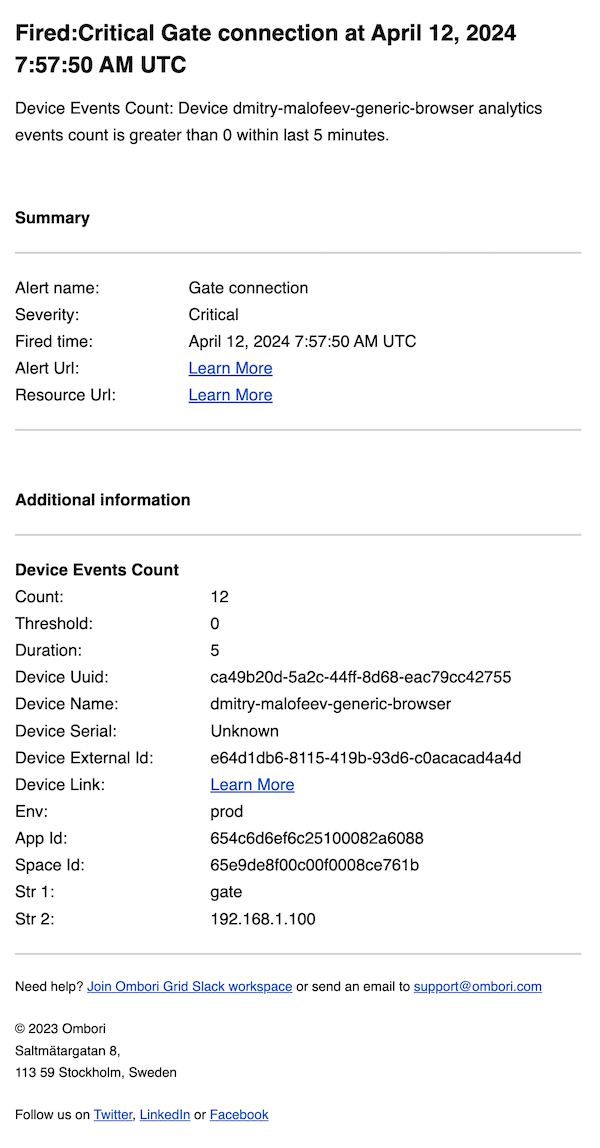
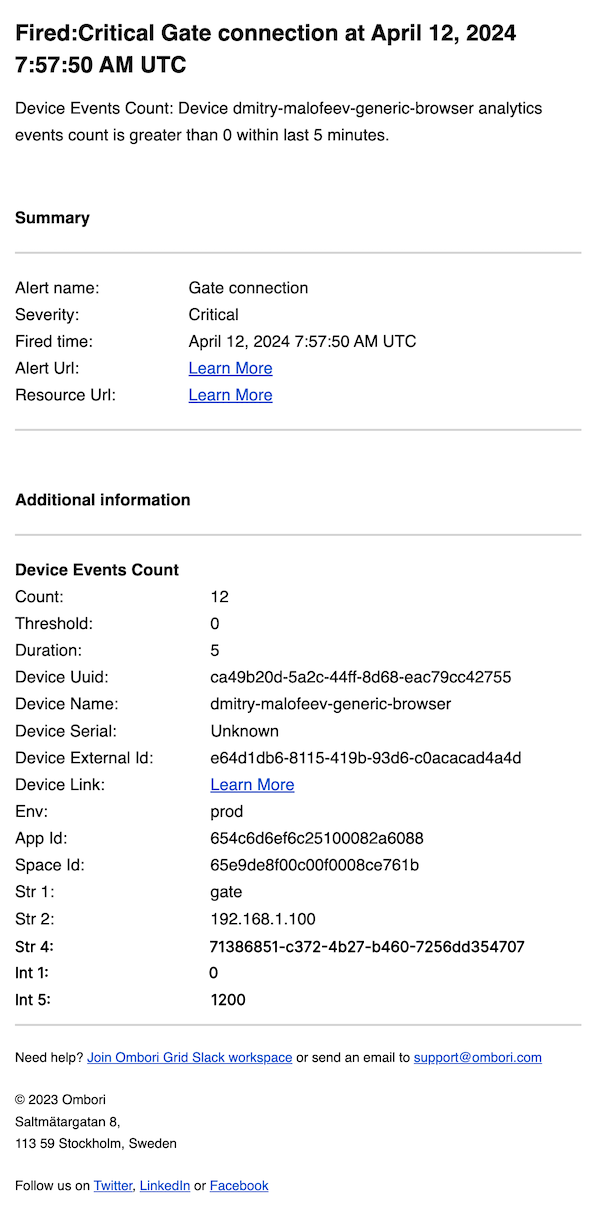
Update docs

diff --git a/console/alerts/README.md b/console/alerts/README.md
@@ -256,11 +256,11 @@ Currently, it is possible to define the following duration values:
 
 **Group by**
 
-The group by is the list of fields that you want to group the events by. This field is optional. Please refer to the examples section ([Gate connection alerts](#gate-connection-alerts-example)) for more information.
+The group by is the list of fields that you want to group the events by. This field is optional. Please refer to the examples section ([Gate connection alerts](#gate-connection-alert-example)) for more information.
 
 **Filters**
 
-It is the list of filters that you want to apply to the events. This field is optional. Please refer to the examples section ([Gate connection alerts](#gate-connection-alerts-example)) for more information.
+It is the list of filters that you want to apply to the events. This field is optional. Please refer to the examples section ([Gate connection alerts](#gate-connection-alert-example)) for more information.
 
 #### Device analytics events count email notification payload
 
@@ -551,10 +551,10 @@ Example of analytics event payload:
   "id": "b6786782-3019-418e-a19b-cc106e649cfc",
   "tenantId": "621e1fc633350f0007637a0c",
   "sessionId": "945fd23e-adfc-4217-86ef-3e1b39b7f880",
-  "eventTime": "2024-04-10T15:11:23.3720000Z",
+  "eventTime": "2024-04-12T07:55:23.3720000Z",
   "clientId": null,
   "eventType": "MONITOR_SESAME_DEVICE_STATUS",
-  "eventCaptureTime": "2024-04-10T15:14:55.3730000Z",
+  "eventCaptureTime": "2024-04-12T07:55:55.3730000Z",
   "interaction": true,
   "ip": "20.240.32.212",
   "productId": null,
@@ -563,18 +563,20 @@ Example of analytics event payload:
   "int2": null,
   "int3": null,
   "int4": null,
-  "int5": null,
+  "int5": 1200,
   "str1": "gate",
-  "str2": "192.168.1.25",
+  "str2": "192.168.1.100",
   "str3": null,
-  "str4": null,
+  "str4": "71386851-c372-4b27-b460-7256dd354707",
   "str5": null
 }
 ```
 
 In this example, we're keeping an eye on the MONITOR_SESAME_DEVICE_STATUS event type. Events of this type might have various values for the STR1 and INT1 properties, but we're specifically looking for events where STR1 is "gate" and INT1 is 0. We can use the filters feature to specify this requirement.
 
-We also need to group the events by the STR1 and STR2 property to ensure that we're counting the number of unique gates that have lost connection. Using the group by feature, means that we will receive an alert notification for each unique group. If the group by field is used, then the values of the group by fields will be included in the alert notification payload.
+We also need to group the events by the STR1 and STR2 property to ensure that we're counting the number of unique gates that have lost connection. Using the group by feature, means that we will receive an alert notification for each unique group. 
+
+> If the group by field is used, then the alert notification payload will include all non-NULL values of properties STR1 through STR5 and INT1 through INT5.
 
 Example of the email notification payload:
 
@@ -607,12 +609,19 @@ Example of the webhook notification payload:
       "spaceId": "65e9de8f00c00f0008ce761b",
       "str1": "gate",
       "str2": "192.168.1.100",
+      "str4": "71386851-c372-4b27-b460-7256dd354707",
+      "int1": 0,
+      "int5": 1200,
       "type": "device-analytics-events-count",
       "name": "Device Events Count"
     }
   ]
 }
 ```
+
+Since the group by field is used in the alert rule settings, the alert notification payload includes all non-NULL values of properties STR1 through STR5 and INT1 through INT5.
+
+In the above example the STR1, STR2, STR4, INT1 and INT5 properties are included in the alert notification payload.
 
 ### Sensor offline alert example
 
@@ -631,10 +640,10 @@ Example of analytics event payload:
   "id": "b6786782-3019-418e-a19b-cc106e649cfc",
   "tenantId": "621e1fc633350f0007637a0c",
   "sessionId": "945fd23e-adfc-4217-86ef-3e1b39b7f880",
-  "eventTime": "2024-04-10T15:11:23.3720000Z",
+  "eventTime": "2024-04-12T07:55:23.3720000Z",
   "clientId": null,
   "eventType": "MONITOR_SESAME_DEVICE_STATUS",
-  "eventCaptureTime": "2024-04-10T15:14:55.3730000Z",
+  "eventCaptureTime": "2024-04-12T07:55:55.3730000Z",
   "interaction": true,
   "ip": "20.240.32.212",
   "productId": null,
@@ -643,18 +652,20 @@ Example of analytics event payload:
   "int2": null,
   "int3": null,
   "int4": null,
-  "int5": null,
+  "int5": 1200,
   "str1": "xovis",
-  "str2": "192.168.1.25",
+  "str2": "192.168.1.100",
   "str3": null,
-  "str4": "9facab5a-8a9e-4124-838d-2fc0bdbb6361",
+  "str4": "71386851-c372-4b27-b460-7256dd354707",
   "str5": null
 }
 ```
 
 In this example, we're keeping an eye on the MONITOR_SESAME_DEVICE_STATUS event type. Events of this type might have various values for the STR1 and INT1 properties, but we're specifically looking for events where STR1 is "xovis" and INT1 is 0. We can use the filters feature to specify this requirement.
 
-We also need to group the events by the STR1 and STR2 property to ensure that we're counting the number of unique sensors that have lost connection. Using the group by feature, means that we will receive an alert notification for each unique group. If the group by field is used, then the values of the group by fields will be included in the alert notification payload.
+We also need to group the events by the STR1 and STR2 property to ensure that we're counting the number of unique sensors that have lost connection. Using the group by feature, means that we will receive an alert notification for each unique group.
+
+> If the group by field is used, then the alert notification payload will include all non-NULL values of properties STR1 through STR5 and INT1 through INT5.
 
 Example of the email notification payload:
 
@@ -664,17 +675,17 @@ Example of the webhook notification payload:
 
 ```json
 {
-  "title": "Fired:Critical Sensor offline at April 12, 2024 7:45:49 AM UTC",
+  "title": "Fired:Critical Sensor offline at April 12, 2024 7:57:50 AM UTC",
   "description": "Device Events Count: Device dmitry-malofeev-generic-browser analytics events count is greater than 0 within last 5 minutes.",
   "alertRuleId": "6617e2329a15e70007e49811",
   "alertRuleName": "Sensor offline",
   "severityName": "Critical",
   "severityValue": 0,
-  "firedAt": "April 12, 2024 7:45:49 AM UTC",
+  "firedAt": "April 12, 2024 7:57:50 AM UTC",
   "alertRuleUrl": "https://console.omborigrid.com/organisations/5cbac8a388e174147b878cdd/alerts/alert-rules/update/6617e2329a15e70007e49811#general",
   "additionalInfo": [
     {
-      "count": 6,
+      "count": 12,
       "threshold": 0,
       "duration": 5,
       "deviceUuid": "ca49b20d-5a2c-44ff-8d68-eac79cc42755",
@@ -687,9 +698,16 @@ Example of the webhook notification payload:
       "spaceId": "65e9de8f00c00f0008ce761b",
       "str1": "xovis",
       "str2": "192.168.1.100",
+      "str4": "71386851-c372-4b27-b460-7256dd354707",
+      "int1": 0,
+      "int5": 1200,
       "type": "device-analytics-events-count",
       "name": "Device Events Count"
     }
   ]
 }
 ```
+
+Since the group by field is used in the alert rule settings, the alert notification payload includes all non-NULL values of properties STR1 through STR5 and INT1 through INT5.
+
+In the above example the STR1, STR2, STR4, INT1 and INT5 properties are included in the alert notification payload.
